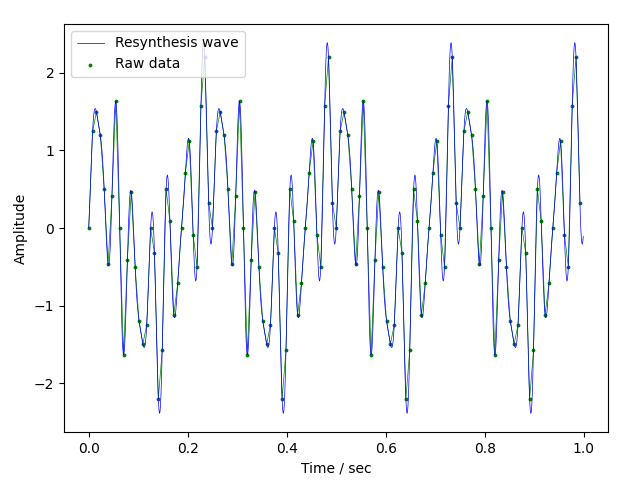
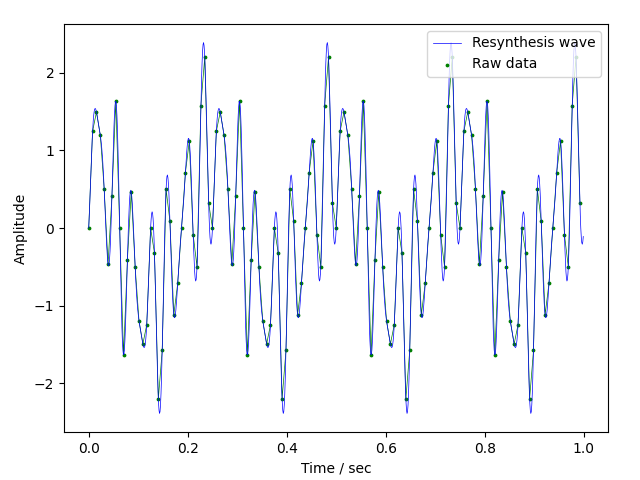
section 3-3

Changed region(s): [[0.6562, 0.0625, 0.9375, 0.1875], [0.125, 0.0625, 0.375, 0.1562]]

diff --git a/advanced_mathematics/lt/data/fft.py b/advanced_mathematics/lt/data/fft.py
@@ -12,25 +12,36 @@ import math
 
 height_threshold = 0.1  # ピーク検出のしきい値
 lower_threshold = 0.6  # 連続したピークを検出するための下限
-N = 128  # データ数
-dt = 0.0078125  # 時間間隔
 num_sample = 1000  # 再合成のサンプル数
-outdir = "kadai3"  # 出力ディレクトリ
+resample = 1  # ダウンサンプリングの回数
+outdir = "kadai3-1"  # 出力ディレクトリ
 name = "kadai3"  # ファイル名
+
 
 #
 # データの格納
 #
-raw = np.loadtxt('./data_'+name+'.csv', delimiter=',')
+raw = np.loadtxt('./data_' + name + '.csv', delimiter=',')
+raw_x = raw[:, 0][::resample]
+raw_y = raw[:, 1][::resample]
+dt = raw_x[1] - raw_x[0]  # 時間間隔
+N = len(raw_x)  # ダウンサンプル後のデータ数
+N_raw = len(raw[:, 0])  # 元データ数
 
 #
 # FFT
 #
-fk = np.fft.fft(raw[:, 1])  # Fkを計算
+fk = np.fft.fft(raw_y)  # Fkを計算
 spec = np.vectorize(lambda x: np.abs(x))(fk)  # スペクトルを計算
 phase = np.vectorize(lambda x: np.angle(x))(fk)  # 位相を計算
 amp = np.vectorize(lambda x: np.abs(x)*2/N)(fk)  # 振幅を計算
-freq = np.fft.fftfreq(raw[:, 1].size, dt)  # index毎の周波数を計算
+freq = np.fft.fftfreq(raw_y.size, dt)  # index毎の周波数を計算
+F_Nyq = abs(freq[int(N/2)])  # ナイキスト周波数
+
+fk_raw = np.fft.fft(raw[:, 1])  # ダウンサンプル前のFk
+spec_raw = np.vectorize(lambda x: np.abs(x))(fk_raw)
+amp_raw = np.vectorize(lambda x: np.abs(x)*2/N_raw)(fk_raw)
+freq_raw = np.fft.fftfreq(raw[:, 1].size, raw[1, 0] - raw[0, 0])
 
 # 極大値によるピークの検出
 peaks, _ = find_peaks(amp[0:int(N / 2)], height=height_threshold)
@@ -43,16 +54,12 @@ if len(peaks_) > 0:
 #
 # 波形再合成
 #
-
-
 def f_resyn(x):
     ret = 0
     for i in peaks:
         ret += amp[i] * math.cos(2 * math.pi * freq[i] * x + phase[i])
 
     return ret
-
-
 time = [dt*N/num_sample*i for i in range(num_sample)]
 f = [f_resyn(dt*N/num_sample*i) for i in range(num_sample)]
 
@@ -78,8 +85,7 @@ ax = fig1.add_subplot(111)
 ax.set_xlabel('frequency / Hz')
 ax.set_ylabel('Amplitude')
 ax.scatter(freq[peaks], amp[peaks], s=10, label="Peaks", c="b")
-ax.scatter(freq[0:int(N / 2)], amp[0:int(N / 2)],
-           s=3, label="Amplitude", c="g")
+ax.scatter(freq[0:int(N / 2)], amp[0:int(N / 2)], s=3, label="Amplitude", c="g")
 ax.plot(freq[0:int(N / 2)], amp[0:int(N / 2)], c="g", linewidth=0.5)
 fig1.subplots_adjust(left=0.1, right=0.95, bottom=0.1, top=0.95)
 plt.legend(loc='best')
@@ -92,10 +98,8 @@ fig2 = plt.figure()
 ax = fig2.add_subplot(111)
 ax.set_xlabel('frequency / Hz')
 ax.set_ylabel('Phase / degrees')
-ax.scatter(freq[peaks], [np.degrees(x)
-                         for x in phase[peaks]], s=10, label="Peaks", c="b")
-ax.scatter(freq[0:int(N / 2)], [np.degrees(x)
-                                for x in phase[0:int(N / 2)]], s=3, label="Phase", c="g")
+ax.scatter(freq[peaks], [np.degrees(x) for x in phase[peaks]], s=10, label="Peaks", c="b")
+ax.scatter(freq[0:int(N / 2)], [np.degrees(x) for x in phase[0:int(N / 2)]], s=3, label="Phase", c="g")
 fig2.subplots_adjust(left=0.1, right=0.95, bottom=0.1, top=0.95)
 plt.legend(loc='best')
 fig2.savefig(outdir+"/Phase-"+name+".png")
@@ -107,11 +111,12 @@ fig3 = plt.figure()
 ax = fig3.add_subplot(111)
 ax.set_xlabel("Time / sec")
 ax.set_ylabel("Amplitude")
-ax.plot(raw[:, 0], raw[:, 1], c="g", linewidth=0.5)
-ax.scatter(raw[:, 0], raw[:, 1], c="g", s=3, label="Raw data")
+ax.plot(raw_x, raw_y, c="g", linewidth=0.5)
+ax.scatter(raw_x, raw_y, c="g", s=3, label="Raw data")
 ax.plot(time, f, c="b", linewidth=0.5, label="Resynthesis wave")
 fig3.subplots_adjust(left=0.1, right=0.95, bottom=0.1, top=0.95)
-plt.legend(loc='best')
+#plt.legend(loc='best')
+plt.legend(loc='upper right')
 fig3.savefig(outdir+"/Wave-"+name+".png")
 
 #
@@ -121,16 +126,87 @@ fig4 = plt.figure()
 ax = fig4.add_subplot(111)
 ax.set_xlabel("Time / sec")
 ax.set_ylabel("Amplitude")
-ax.plot(raw[:, 0], raw[:, 1], c="g", linewidth=0.5)
-ax.scatter(raw[:, 0], raw[:, 1], c="g", s=3, label="Raw data")
+ax.plot(raw_x, raw_y, c="g", linewidth=0.5)
+ax.scatter(raw_x, raw_y, c="g", s=3, label="Raw data")
 fig4.subplots_adjust(left=0.1, right=0.95, bottom=0.1, top=0.95)
 plt.legend(loc='best')
 fig4.savefig(outdir+"/WaveOrigin-"+name+".png")
 
 #
+# 周波数スペクトル(比較用)
+#
+fig5 = plt.figure()
+ax = fig5.add_subplot(111)
+ax.set_xlabel('frequency / Hz')
+ax.set_ylabel('$|X_k|$')
+plt.ylim(0, 70)
+fig5.subplots_adjust(left=0.1, right=0.95, bottom=0.1, top=0.95)
+
+ax.annotate('', xy=[F_Nyq, 0], xytext=[F_Nyq, 3.5],
+            arrowprops=dict(shrink=0, width=0.7, headwidth=4,
+                            headlength=7, connectionstyle='arc3',
+                            facecolor='gray', edgecolor='gray'))
+ax.annotate('', xy=[-F_Nyq, 0], xytext=[-F_Nyq, 3.5],
+            arrowprops=dict(shrink=0, width=0.7, headwidth=4,
+                            headlength=7, connectionstyle='arc3',
+                            facecolor='gray', edgecolor='gray'))
+ax.text(F_Nyq, 4.2, "$F_N$", size=10, horizontalalignment="center")
+ax.text(-F_Nyq, 4.2, "$-F_N$", size=10, horizontalalignment="center")
+
+lists = sorted(zip(*[freq_raw, spec_raw]))
+freq_raw_sorted, spec_raw_sorted = list(zip(*lists))
+ax.plot(freq_raw_sorted, spec_raw_sorted, c="b", linewidth=0.5)
+ax.scatter(freq_raw_sorted, spec_raw_sorted, s=10, c="b", label="Original")
+
+if resample > 1:
+    lists = sorted(zip(*[freq, spec]))
+    freq_sorted, spec_sorted = list(zip(*lists))
+    ax.plot(freq_sorted, spec_sorted, c="g", linewidth=0.5)
+    ax.scatter(freq_sorted, spec_sorted, s=10, c="g", label="Downsampled")
+    plt.legend(loc='best')
+
+fig5.savefig(outdir+"/Spectrums-"+name+".png")
+
+#
+# 振幅(比較用)
+#
+fig6 = plt.figure()
+ax = fig6.add_subplot(111)
+ax.set_xlabel('frequency / Hz')
+ax.set_ylabel('Amplitude')
+
+ax.annotate('', xy=[F_Nyq, 0], xytext=[F_Nyq, 0.05],
+            arrowprops=dict(shrink=0, width=0.7, headwidth=4,
+                            headlength=7, connectionstyle='arc3',
+                            facecolor='gray', edgecolor='gray'))
+ax.annotate('', xy=[-F_Nyq, 0], xytext=[-F_Nyq, 0.05],
+            arrowprops=dict(shrink=0, width=0.7, headwidth=4,
+                            headlength=7, connectionstyle='arc3',
+                            facecolor='gray', edgecolor='gray'))
+ax.text(F_Nyq, 0.06, "$F_N$", size=10, horizontalalignment="center")
+ax.text(-F_Nyq, 0.06, "$-F_N$", size=10, horizontalalignment="center")
+
+ax.scatter(freq_raw[0:int(N_raw)], amp_raw[0:int(N_raw)], s=3, label="Original", c="b")
+ax.plot(freq_raw[0:int(N_raw)], amp_raw[0:int(N_raw)], c="b", linewidth=0.5)
+
+if resample > 1:
+    ax.scatter(freq[0:int(N)], amp[0:int(N)], s=3, label="Downsampled", c="g")
+    ax.plot(freq[0:int(N)], amp[0:int(N)], c="g", linewidth=0.5)
+    plt.legend(loc='best')
+
+fig6.subplots_adjust(left=0.1, right=0.95, bottom=0.1, top=0.95)
+fig6.savefig(outdir+"/Amplitudes-"+name+".png")
+
+#
+# ダウンサンプリングしたデータを保存
+#
+csv = np.stack([raw_x, raw_y], 1)
+np.savetxt(outdir + "/" + name + "-" + "downsample" + ".csv", csv, fmt='%.10f', delimiter=",")
+
+#
 # 結果の出力
 #
-print("Nyquist frequency:", abs(freq[int(N/2)]))
+print("Nyquist frequency:", F_Nyq)
 print("peaks:")
 for i in peaks:
     print("Frequency:", freq[i], "  Amplitude:",
